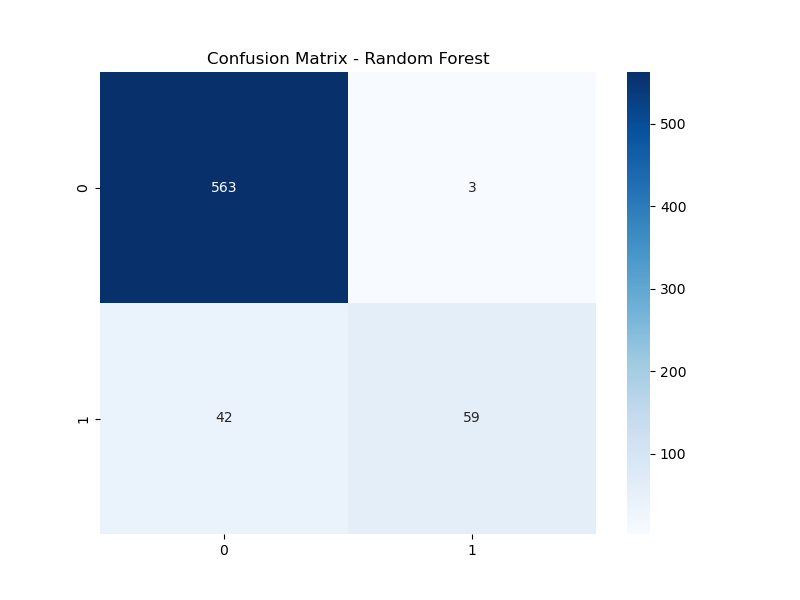
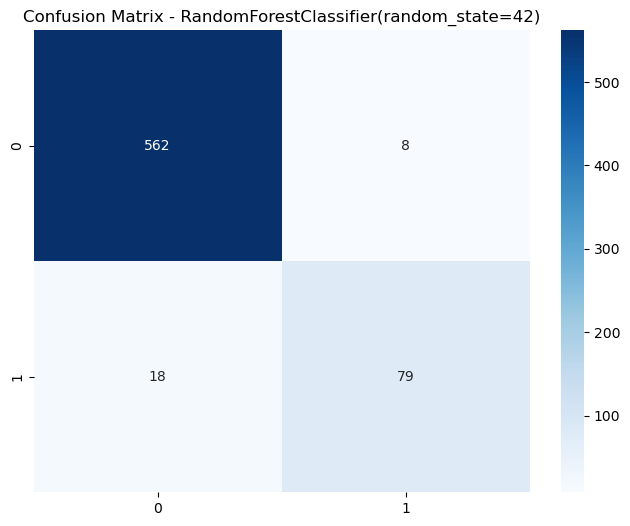
update changes

diff --git a/README.md b/README.md
@@ -34,16 +34,37 @@ Identifying factors that influence churn, leading to targeted business intervent
 
 ## EDA
 
-**The visualization shows the Distribution of Customer Churn**
-![Distribution of Customer Churn](/images/Distribution%20of%20Customer%20Churn.png)
-* The chart shows a significantly larger number of customers classified as `non-churners` (false), compared to `churners` (true).
+![Distribution of Customer Churn](/images/Customer%20Churn%20Distribution.png)
+The chart shows a significantly larger number of customers classified as `non-churners` (false), compared to `churners` (true).
+
+![Churn Distribution by International Plan](/images/Churn%20Distribution%20by%20International%20Plan.png)
+Majority of customers do not have an international plan and within that group, the churn rate is significantly lower compared to the group with an international plan, which exhibits a higher proportion of churned customers relative to non-churned customers.
 
 
 ## Feature Engineering
+Features used are shown below:
 
-## Modeling
+- Total_Minutes
+- Total_Calls
+- Total_Charges
+- Charges_Per_Minute
+- Calls_Per_Minute
+
+## Modeling - Random Forest
+
+The Random Forest algorithm performed best with an accuracy of ~96%
+
+![Confusion Matrix - Random Forest](/images/Confusion%20Matrix%20-%20Random%20Forest.png)
+![Final Classification Report](/images/Classification%20Report.png)
+
+![ROC Curve](/images/ROC%20Curve.png)
+An AUC of 0.90 suggests strong predictive power
 
 ## Feature Selection
+
+The most important features were Total_Charges, Customer_Service_Calls.
+![Top 10 Most Important Features For Churn Prediction](/images/Top%2010%20Most%20Important%20Features%20for%20Churn%20Prediction.png).
+
 
 ## Conclusions
 

diff --git a/LICENCE.md b/LICENCE.md
@@ -1,0 +1,7 @@
+# Learn.co Educational Content License
+
+Copyright (c) 2015 Flatiron School, Inc
+
+The Flatiron School, Inc. owns this Educational Content. However, the Flatiron School supports the development and availability of educational materials in the public domain. Therefore, the Flatiron School grants Users of the Flatiron Educational Content set forth in this repository certain rights to reuse, build upon and share such Educational Content subject to the terms of the Educational Content License set forth [here](http://learn.co/content-license) (http://learn.co/content-license). You must read carefully the terms and conditions contained in the Educational Content License as such terms govern access to and use of the Educational Content.  
+
+Flatiron School is willing to allow you access to and use of the Educational Content only on the condition that you accept all of the terms and conditions contained in the Educational Content License set forth [here](http://learn.co/content-license) (http://learn.co/content-license).  By accessing and/or using the Educational Content, you are agreeing to all of the terms and conditions contained in the Educational Content License.  If you do not agree to any or all of the terms of the Educational Content License, you are prohibited from accessing, reviewing or using in any way the Educational Content.
